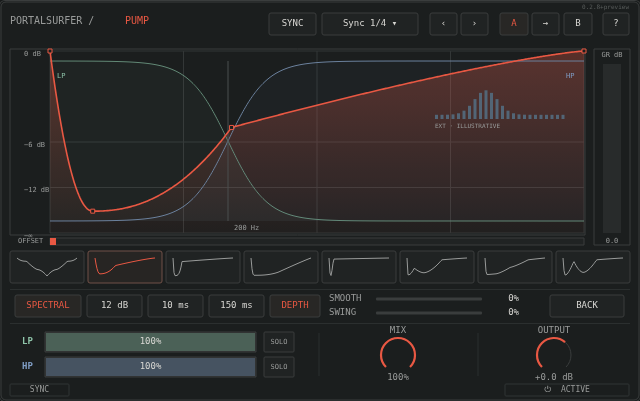
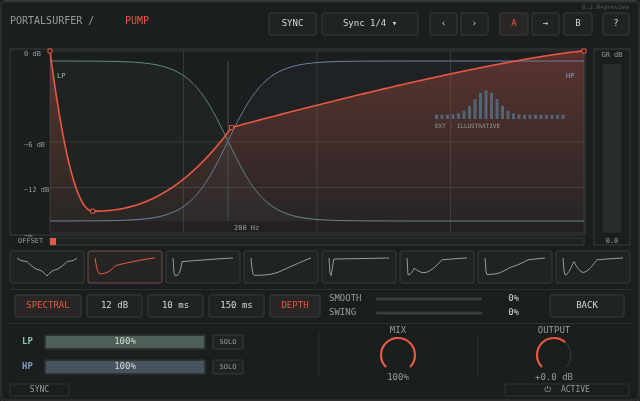
Make LP/HP mix bars thinner and narrower

Changed region(s): [[0.0625, 0.808, 0.4375, 0.9576]]

diff --git a/frame-standalone.html b/frame-standalone.html
@@ -94,7 +94,7 @@ button:focus-visible, select:focus-visible { outline: 2px solid #e95843; outline
   function button(c,t,x,y,w,active=false){rect(c,x,y,w,22,2,active?'#282725':C.panel);alignedText(c,t,x+w/2,y+11,9,active?C.accent:C.text);}
   function knob(c,label,value,x,y,a=0){alignedText(c,label,x,y-24,9,C.muted);c.strokeStyle=C.line;c.lineWidth=1;c.beginPath();c.arc(x,y,17,.75*Math.PI,2.25*Math.PI);c.stroke();if(a>0){c.strokeStyle=C.accent;c.lineWidth=2.2;c.beginPath();c.arc(x,y,17,.75*Math.PI,(.75+1.5*a)*Math.PI);c.stroke();}alignedText(c,value,x,y+23,9,C.muted);}
   function slider(c,label,value,x,y,w=282,a=0){text(c,label,x,y,9,C.muted);const tx=x+47,tw=w-84;rect(c,tx,y-1.5,tw,3,1,C.line,null);if(a>0)rect(c,tx,y-1.5,tw*a,3,1,C.accent,null);alignedText(c,value,x+w,y,9,C.text,'right');}
-  function mixRow(c,label,x,y,value,color,tw=118){text(c,label,x,y,9,color,600);const bx=x+23,bw=tw+34;rect(c,bx,y-10,bw,20,0,'#282b2b',C.line);if(value>0){c.save();c.globalAlpha=90/255;rect(c,bx+1,y-9,(bw-2)*value,18,0,color,null);c.restore();}alignedText(c,Math.round(value*100)+'%',bx+bw/2,y,9,C.text);rect(c,x+tw+65,y-10,30,20,1,C.panel);alignedText(c,'SOLO',x+tw+80,y,7,C.muted);}
+  function mixRow(c,label,x,y,value,color,tw=118){text(c,label,x,y,9,color,600);const bx=x+23,bw=tw+34;rect(c,bx,y-7,bw,14,0,'#282b2b',C.line);if(value>0){c.save();c.globalAlpha=90/255;rect(c,bx+1,y-6,(bw-2)*value,12,0,color,null);c.restore();}alignedText(c,Math.round(value*100)+'%',bx+bw/2,y,9,C.text);rect(c,x+tw+65,y-7,30,14,1,C.panel);alignedText(c,'SOLO',x+tw+80,y,7,C.muted);}
   const shapes=[["Sine", [[0.0, 1.0], [0.16, 0.82], [0.34, 0.36], [0.5, 0.0], [0.66, 0.36], [0.84, 0.82], [1.0, 1.0]], [-0.55, -0.1, 0.25, -0.25, 0.1, 0.55]], ["Soft", [[0.0, 1.0], [0.08, 0.12], [0.34, 0.58], [1.0, 1.0]], [-0.35, 0.42, -0.08]], ["Tight", [[0.0, 1.0], [0.035, 0.02], [0.15, 0.8], [1.0, 1.0]], [-0.58, 0.72, -0.04]], ["Long", [[0.0, 1.0], [0.05, 0.04], [0.46, 0.22], [1.0, 1.0]], [-0.48, 0.58, -0.02]], ["Snap", [[0.0, 1.0], [0.012, 0.22], [0.03, 0.0], [0.075, 0.94], [1.0, 1.0]], [-0.08, 0.02, 0.12, 0.0]], ["Punch", [[0.0, 1.0], [0.02, 0.06], [0.12, 0.44], [0.28, 0.18], [0.58, 0.9], [1.0, 1.0]], [-0.52, 0.3, -0.24, 0.22, -0.04]], ["Thump", [[0.0, 1.0], [0.03, 0.08], [0.18, 0.12], [0.42, 0.48], [0.72, 0.9], [1.0, 1.0]], [-0.35, 0.05, 0.12, 0.08, -0.02]], ["Double", [[0.0, 1.0], [0.04, 0.05], [0.18, 0.82], [0.34, 0.2], [0.56, 0.9], [1.0, 1.0]], [-0.48, 0.18, -0.28, 0.2, -0.05]]];
   function sample(shape,x){const n=shape[1],ts=shape[2];let i=0;while(i<n.length-2&&x>n[i+1][0])i++;const l=n[i],r=n[i+1];let t=Math.max(0,Math.min(1,(x-l[0])/(r[0]-l[0])));const tension=ts[i]||0,power=1+Math.abs(tension)*3;t=tension>=0?Math.pow(t,power):1-Math.pow(1-t,power);return l[1]+(r[1]-l[1])*t;}
   function curve(c,shape,x,y,w,h){c.beginPath();for(let i=0;i<=w;i++){const yy=y+(1-sample(shape,i/w))*h;i?c.lineTo(x+i,yy):c.moveTo(x,yy);}c.stroke();}
@@ -128,7 +128,7 @@ button:focus-visible, select:focus-visible { outline: 2px solid #e95843; outline
       for(let i=0;i<24;i++){const v=.12+.7*Math.exp(-Math.pow((i-9)/3,2));c.fillStyle='#526576';c.fillRect(435+i*5.5,83+35*(1-v),3,35*v);}text(c,'EXT · ILLUSTRATIVE',435,125,6,C.muted);
     }
     for(const dx of [319,478]){c.strokeStyle='#2b2f2f';c.beginPath();c.moveTo(dx,332);c.lineTo(dx,375);c.stroke();}
-    mixRow(c,'LP',22,341,1,C.low,177);mixRow(c,'HP',22,366,1,C.blue,177);knob(c,'MIX','100%',398,354,1);knob(c,'OUTPUT','+0.0 dB',554,354,.65);
+    mixRow(c,'LP',22,341,1,C.low,126);mixRow(c,'HP',22,366,1,C.blue,126);knob(c,'MIX','100%',398,354,1);knob(c,'OUTPUT','+0.0 dB',554,354,.65);
     rect(c,10,383,59,12,1,C.bg,'#303434');alignedText(c,'SYNC',39.5,389,8,C.muted);rect(c,505,383,124,12,1,C.bg,'#303434');alignedText(c,'⏻  ACTIVE',567,389,8,C.muted);
   }
   Frame.register({id:'pump',name:'Pump · Dual band',width:640,height:400,paint(c){shell(c,'dual');}});

diff --git a/examples/pump.js b/examples/pump.js
@@ -7,7 +7,7 @@
   function button(c,t,x,y,w,active=false){rect(c,x,y,w,22,2,active?'#282725':C.panel);alignedText(c,t,x+w/2,y+11,9,active?C.accent:C.text);}
   function knob(c,label,value,x,y,a=0){alignedText(c,label,x,y-24,9,C.muted);c.strokeStyle=C.line;c.lineWidth=1;c.beginPath();c.arc(x,y,17,.75*Math.PI,2.25*Math.PI);c.stroke();if(a>0){c.strokeStyle=C.accent;c.lineWidth=2.2;c.beginPath();c.arc(x,y,17,.75*Math.PI,(.75+1.5*a)*Math.PI);c.stroke();}alignedText(c,value,x,y+23,9,C.muted);}
   function slider(c,label,value,x,y,w=282,a=0){text(c,label,x,y,9,C.muted);const tx=x+47,tw=w-84;rect(c,tx,y-1.5,tw,3,1,C.line,null);if(a>0)rect(c,tx,y-1.5,tw*a,3,1,C.accent,null);alignedText(c,value,x+w,y,9,C.text,'right');}
-  function mixRow(c,label,x,y,value,color,tw=118){text(c,label,x,y,9,color,600);const bx=x+23,bw=tw+34;rect(c,bx,y-10,bw,20,0,'#282b2b',C.line);if(value>0){c.save();c.globalAlpha=90/255;rect(c,bx+1,y-9,(bw-2)*value,18,0,color,null);c.restore();}alignedText(c,Math.round(value*100)+'%',bx+bw/2,y,9,C.text);rect(c,x+tw+65,y-10,30,20,1,C.panel);alignedText(c,'SOLO',x+tw+80,y,7,C.muted);}
+  function mixRow(c,label,x,y,value,color,tw=118){text(c,label,x,y,9,color,600);const bx=x+23,bw=tw+34;rect(c,bx,y-7,bw,14,0,'#282b2b',C.line);if(value>0){c.save();c.globalAlpha=90/255;rect(c,bx+1,y-6,(bw-2)*value,12,0,color,null);c.restore();}alignedText(c,Math.round(value*100)+'%',bx+bw/2,y,9,C.text);rect(c,x+tw+65,y-7,30,14,1,C.panel);alignedText(c,'SOLO',x+tw+80,y,7,C.muted);}
   const shapes=[["Sine", [[0.0, 1.0], [0.16, 0.82], [0.34, 0.36], [0.5, 0.0], [0.66, 0.36], [0.84, 0.82], [1.0, 1.0]], [-0.55, -0.1, 0.25, -0.25, 0.1, 0.55]], ["Soft", [[0.0, 1.0], [0.08, 0.12], [0.34, 0.58], [1.0, 1.0]], [-0.35, 0.42, -0.08]], ["Tight", [[0.0, 1.0], [0.035, 0.02], [0.15, 0.8], [1.0, 1.0]], [-0.58, 0.72, -0.04]], ["Long", [[0.0, 1.0], [0.05, 0.04], [0.46, 0.22], [1.0, 1.0]], [-0.48, 0.58, -0.02]], ["Snap", [[0.0, 1.0], [0.012, 0.22], [0.03, 0.0], [0.075, 0.94], [1.0, 1.0]], [-0.08, 0.02, 0.12, 0.0]], ["Punch", [[0.0, 1.0], [0.02, 0.06], [0.12, 0.44], [0.28, 0.18], [0.58, 0.9], [1.0, 1.0]], [-0.52, 0.3, -0.24, 0.22, -0.04]], ["Thump", [[0.0, 1.0], [0.03, 0.08], [0.18, 0.12], [0.42, 0.48], [0.72, 0.9], [1.0, 1.0]], [-0.35, 0.05, 0.12, 0.08, -0.02]], ["Double", [[0.0, 1.0], [0.04, 0.05], [0.18, 0.82], [0.34, 0.2], [0.56, 0.9], [1.0, 1.0]], [-0.48, 0.18, -0.28, 0.2, -0.05]]];
   function sample(shape,x){const n=shape[1],ts=shape[2];let i=0;while(i<n.length-2&&x>n[i+1][0])i++;const l=n[i],r=n[i+1];let t=Math.max(0,Math.min(1,(x-l[0])/(r[0]-l[0])));const tension=ts[i]||0,power=1+Math.abs(tension)*3;t=tension>=0?Math.pow(t,power):1-Math.pow(1-t,power);return l[1]+(r[1]-l[1])*t;}
   function curve(c,shape,x,y,w,h){c.beginPath();for(let i=0;i<=w;i++){const yy=y+(1-sample(shape,i/w))*h;i?c.lineTo(x+i,yy):c.moveTo(x,yy);}c.stroke();}
@@ -41,7 +41,7 @@
       for(let i=0;i<24;i++){const v=.12+.7*Math.exp(-Math.pow((i-9)/3,2));c.fillStyle='#526576';c.fillRect(435+i*5.5,83+35*(1-v),3,35*v);}text(c,'EXT · ILLUSTRATIVE',435,125,6,C.muted);
     }
     for(const dx of [319,478]){c.strokeStyle='#2b2f2f';c.beginPath();c.moveTo(dx,332);c.lineTo(dx,375);c.stroke();}
-    mixRow(c,'LP',22,341,1,C.low,177);mixRow(c,'HP',22,366,1,C.blue,177);knob(c,'MIX','100%',398,354,1);knob(c,'OUTPUT','+0.0 dB',554,354,.65);
+    mixRow(c,'LP',22,341,1,C.low,126);mixRow(c,'HP',22,366,1,C.blue,126);knob(c,'MIX','100%',398,354,1);knob(c,'OUTPUT','+0.0 dB',554,354,.65);
     rect(c,10,383,59,12,1,C.bg,'#303434');alignedText(c,'SYNC',39.5,389,8,C.muted);rect(c,505,383,124,12,1,C.bg,'#303434');alignedText(c,'⏻  ACTIVE',567,389,8,C.muted);
   }
   Frame.register({id:'pump',name:'Pump · Dual band',width:640,height:400,paint(c){shell(c,'dual');}});
